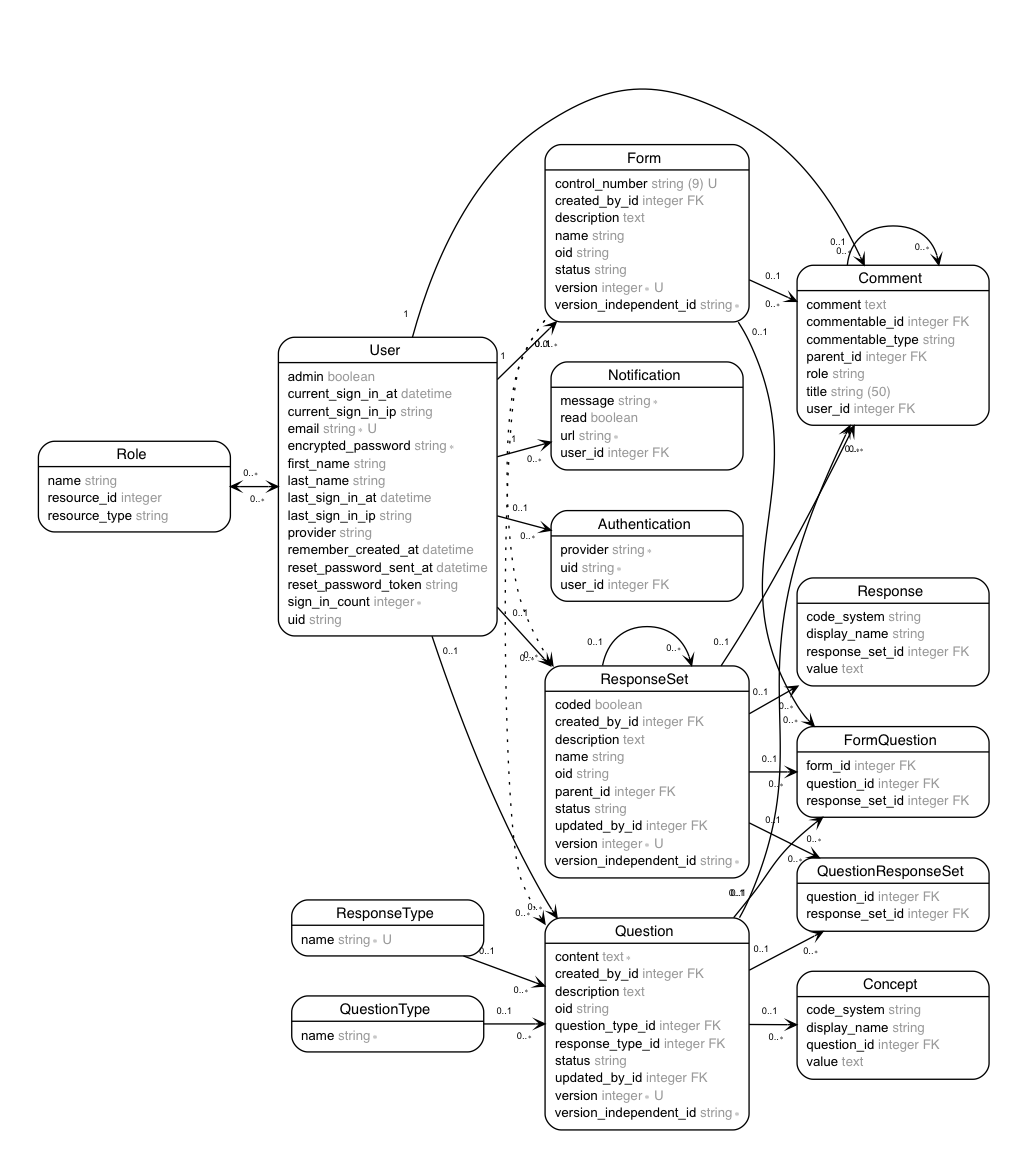
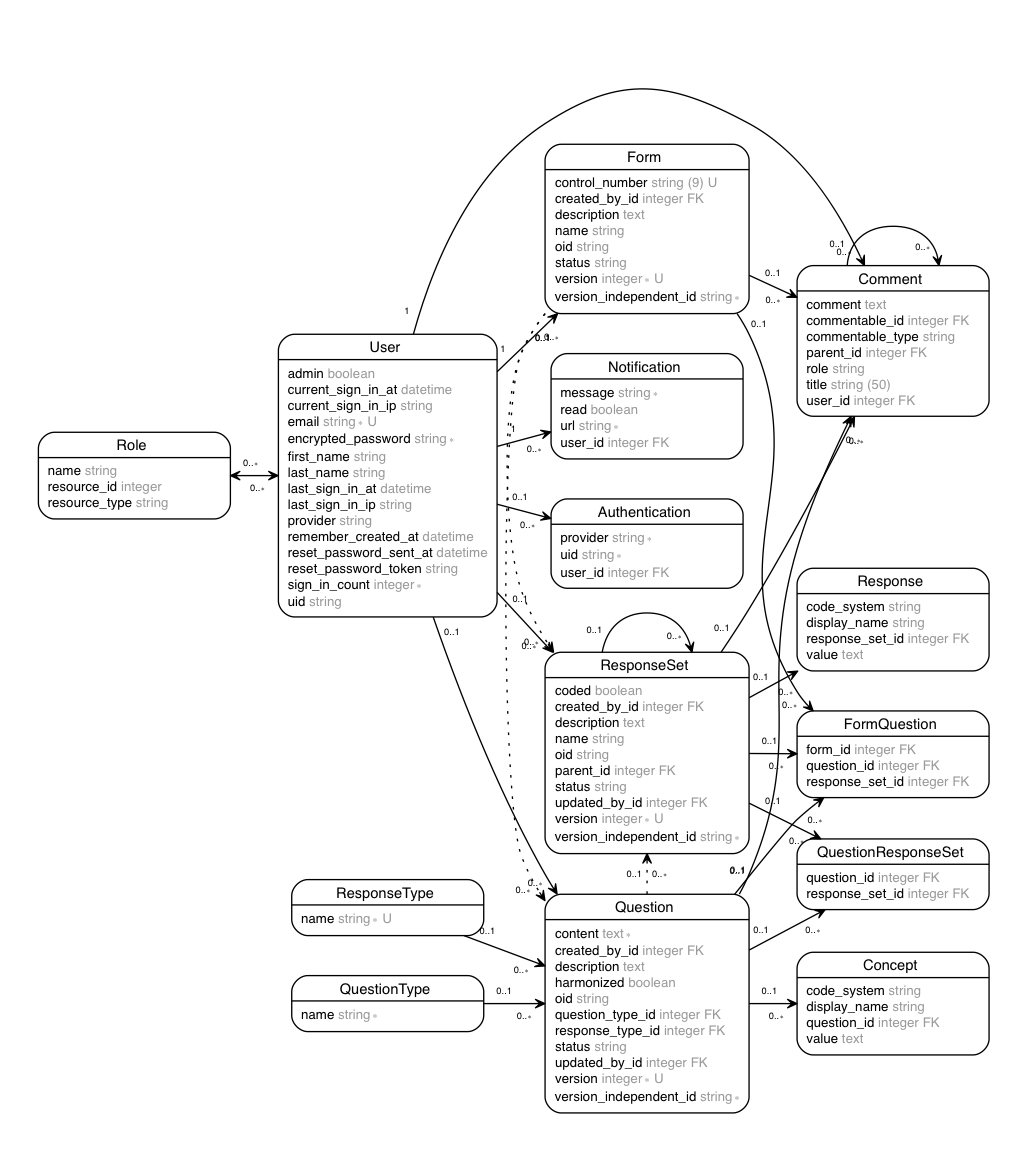
Adding a harmonized flag to questions

diff --git a/webpack/components/QuestionForm.js b/webpack/components/QuestionForm.js
@@ -134,6 +134,7 @@ class QuestionForm extends Component{
       questionTypeId: null,
       versionIndependentId: null,
       version: 1,
+      harmonized: false,
       responseTypeId: null,
       conceptsAttributes: [],
       linkedResponseSets: [],
@@ -197,8 +198,12 @@ class QuestionForm extends Component{
 
               <div className="row ">
                 <div className="col-md-8 question-form-group">
-                  <label className="input-label" htmlFor="content">Description</label>
+                  <label className="input-label" htmlFor="description">Description</label>
                   <textarea className="input-format" placeholder="Question description" type="text" name="description" id="description" defaultValue={state.description} onChange={this.handleChange('description')} />
+                </div>
+                <div className="col-md-8 question-form-group">
+                  <label className="input-label" htmlFor="harmonized">Harmonized: </label>
+                  <input className="form-ckeck-input" type="checkbox" name="harmonized" id="harmonized" checked={state.harmonized} onChange={() => this.toggelHarmonized()} />
                 </div>
                 <div className="col-md-4 question-form-group">
                     <label className="input-label" htmlFor="responseTypeId">Primary Response Type</label>
@@ -272,6 +277,10 @@ class QuestionForm extends Component{
       this.setState(newState);
       this.unsavedState = true;
     };
+  }
+
+  toggelHarmonized() {
+    this.setState({harmonized: !this.state.harmonized});
   }
 
   handleResponseSetsChange(newResponseSets){

diff --git a/webpack/components/QuestionDetails.js b/webpack/components/QuestionDetails.js
@@ -21,6 +21,10 @@ export default class QuestionDetails extends Component {
         { question.description }
         </p>
         <p>
+        <strong>Harmonized: </strong>
+        { question.harmonized ? 'yes' : 'no' }
+        </p>
+        <p>
           <strong>Author: </strong>
           { question.createdBy && question.createdBy.email }
         </p>

diff --git a/test/frontend/components/question_details_test.js b/test/frontend/components/question_details_test.js
@@ -11,7 +11,7 @@ describe('QuestionDetails', () => {
   });
 
   it('should display a question', () => {
-    expect(component.find("p").length).to.equal(8);
+    expect(component.find("p").length).to.equal(9);
   });
 
 });

diff --git a/db/schema.rb b/db/schema.rb
@@ -10,7 +10,7 @@
 #
 # It's strongly recommended that you check this file into your version control system.
 
-ActiveRecord::Schema.define(version: 20170208201558) do
+ActiveRecord::Schema.define(version: 20170217164345) do
 
   # These are extensions that must be enabled in order to support this database
   enable_extension "plpgsql"
@@ -107,6 +107,7 @@ ActiveRecord::Schema.define(version: 20170208201558) do
     t.string   "oid"
     t.text     "description"
     t.string   "status"
+    t.boolean  "harmonized"
     t.index ["created_by_id"], name: "index_questions_on_created_by_id", using: :btree
     t.index ["question_type_id"], name: "index_questions_on_question_type_id", using: :btree
     t.index ["response_type_id"], name: "index_questions_on_response_type_id", using: :btree

diff --git a/app/controllers/questions_controller.rb b/app/controllers/questions_controller.rb
@@ -79,6 +79,6 @@ class QuestionsController < ApplicationController
   # Never trust parameters from the scary internet, only allow the white list through.
   def question_params
     params.require(:question).permit(:content, :response_set_id, :response_type_id, :question_type_id, :version, :version_independent_id,
-                                     :description, :status, concepts_attributes: [:id, :value, :display_name, :code_system])
+                                     :description, :status, :harmonized, concepts_attributes: [:id, :value, :display_name, :code_system])
   end
 end

diff --git a/features/step_definitions/question_steps.rb b/features/step_definitions/question_steps.rb
@@ -24,6 +24,10 @@ When(/^I click on the menu link for the Question with the (.+) "([^"]*)"$/) do |
   page.find("#question_#{object_id}_menu").click
 end
 
+When(/^I check the (.*) box$/) do |box|
+  check(box)
+end
+
 When(/^I drag the "([^"]*)" option to the "([^"]*)" list$/) do |option, target|
   drag = find('a', text: option)
   target = '.' + target.downcase.tr(' ', '_')

diff --git a/db/migrate/20170217164345_add_harmonization_flag_to_question.rb b/db/migrate/20170217164345_add_harmonization_flag_to_question.rb
@@ -1,0 +1,5 @@
+class AddHarmonizationFlagToQuestion < ActiveRecord::Migration[5.0]
+  def change
+    add_column :questions, :harmonized, :boolean
+  end
+end
